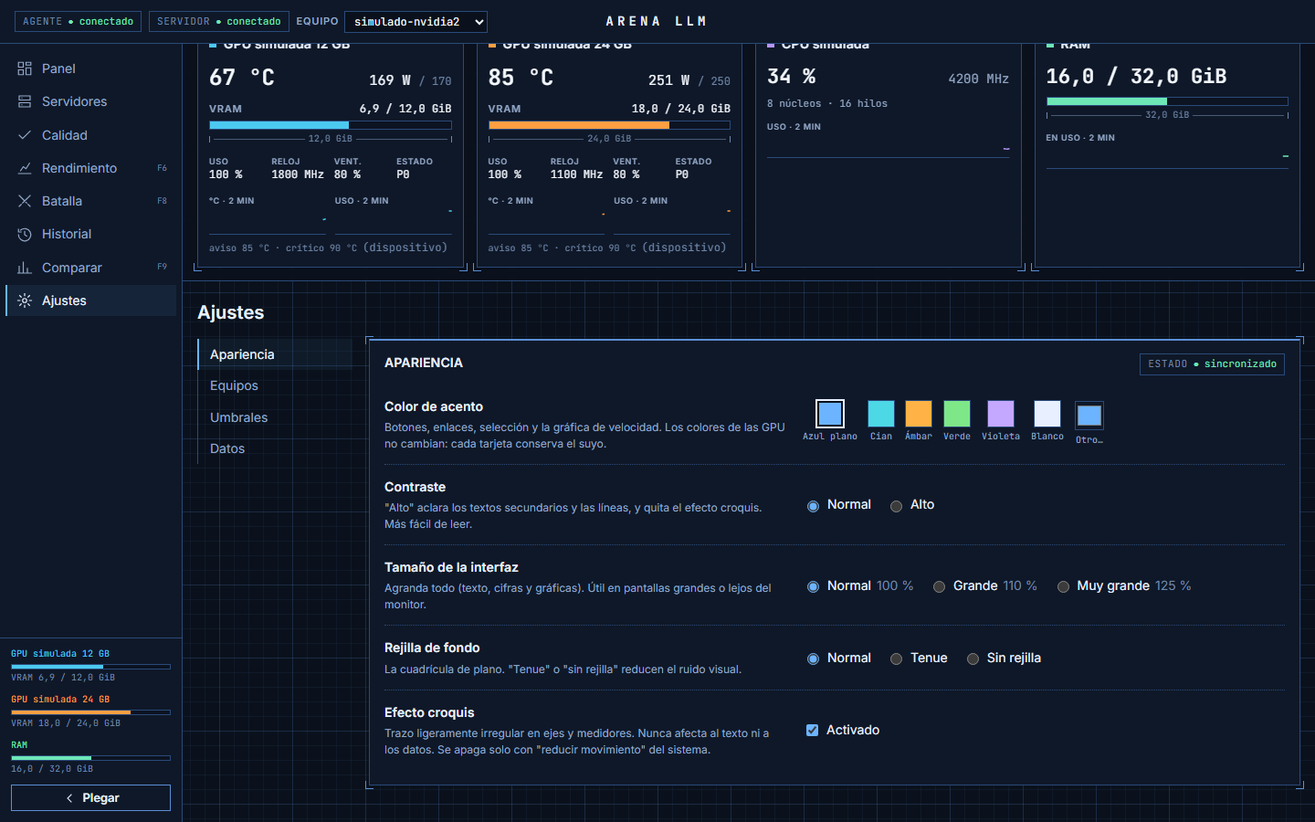
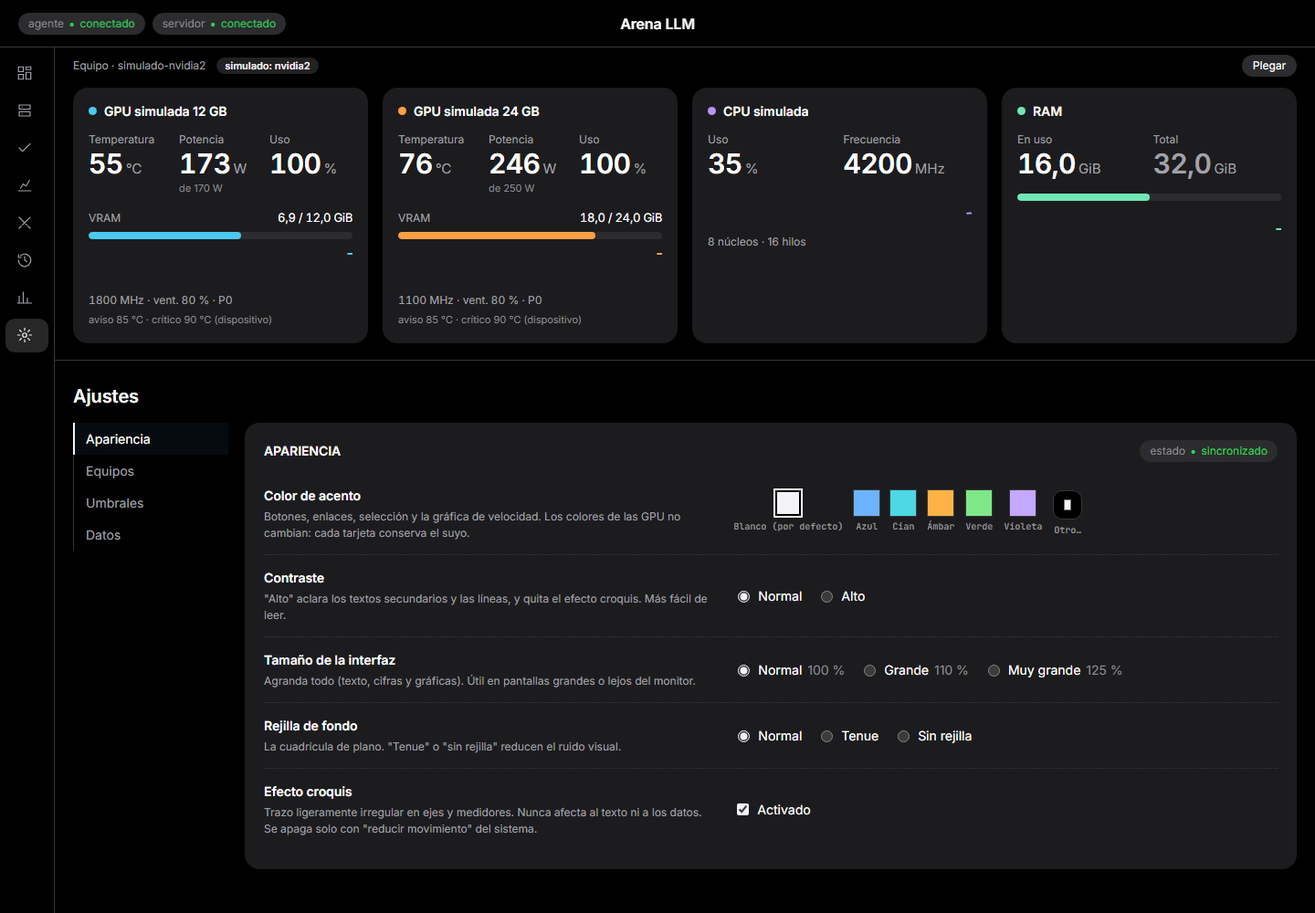
docs: README reescrito con la GUI actual, capturas y animaciones nuevas

diff --git a/README.md b/README.md
@@ -1,157 +1,190 @@
 # Arena LLM
 
-Banco de pruebas **independiente del hardware** para modelos de IA locales (llama.cpp). Es una web local para **medir, enfrentar y comparar modelos** en cualquier equipo y tarjeta, con la telemetría del equipo (cada GPU, CPU y RAM) siempre a la vista.
+Banco de pruebas **independiente del hardware** para modelos de IA locales (llama.cpp). Es una web local que **mide, enfrenta y compara modelos** en cualquier equipo y tarjeta, con la telemetría del equipo (cada GPU, CPU y RAM) siempre a la vista.
 
-![Panel de Arena LLM: dos GPU, CPU y RAM en vivo, con medidores y aviso de throttling](docs/img/panel.png)
+Resuelve un problema concreto: comparar dos modelos, dos cuantizaciones o dos tarjetas suele acabar en cifras sueltas que no se pueden comparar. Arena detecta cada `llama-server` y su configuración, lo prueba con el mismo perfil en cualquier equipo, guarda la foto de configuración con cada run y dice si dos resultados son **comparables** y por qué.
 
-> Estado: F1–F6 hechas, más **Batalla** (F8) y gran parte de **Comparar** (F9): telemetría, detección de servidores, calculadora de encaje con comando de arranque, estrés, prompt libre con biblioteca, rendimiento por componente con `llama-bench`, batallas entre modelos y comparación de runs con lectura de todas las respuestas. Ver [`ESTADO.md`](ESTADO.md) y [`docs/HOJA-DE-RUTA.md`](docs/HOJA-DE-RUTA.md).
->
-> Todas las capturas están hechas con el **modo simulado** (perfiles `nvidia2` y `cpu-only`, `llama-server` simulados y GGUF falsos): no hay datos ni rutas reales.
+![Panel de Arena LLM: dos GPU, CPU y RAM en vivo, con medidores y avisos](docs/img/panel.png)
 
-## Qué hace
+> Todas las capturas y animaciones están hechas con el **modo simulado** (perfil `nvidia2`, `llama-server` simulados y GGUF falsos): no hay datos, rutas ni modelos reales. Los nombres de GPU ("GPU simulada 12 GB") son del simulador.
 
-1. **Muestra siempre el estado del equipo** (cada GPU, CPU y RAM) para ver de un vistazo que no pasa nada raro.
-2. **Detecta sola** qué modelo, contexto y flags tiene cada `llama-server` y lo guarda con cada prueba.
-3. **Prueba y compara**: estrés, prompt libre, rendimiento por componente, batallas A contra B y comparación de resultados. En próximas fases llegarán las pruebas de calidad con corrección automática.
+## Índice
 
-## Funcionalidades
+- [Funciones](#funciones): Panel, Servidores, Calidad, Rendimiento, Batalla, Historial, Comparar, Ajustes y exportación.
+- [Novedades recientes de la interfaz](#novedades-recientes-de-la-interfaz)
+- [Instalación y arranque](#instalación-y-arranque)
+- [Principios](#principios), [componentes](#componentes), [estado por fases](#estado-por-fases) y [documentación](#documentación)
 
-### Telemetría en vivo
+## Funciones
 
-Temperatura, potencia, VRAM, uso, relojes, ventilador, estado P y throttling de cada GPU, más CPU y RAM, cada segundo por SSE. Cada tarjeta conserva su color en toda la interfaz, y los avisos salen de los umbrales de cada dispositivo.
+El menú lateral tiene ocho secciones: Panel, Servidores, Calidad, Rendimiento, Batalla, Historial, Comparar y Ajustes. La franja del equipo (una tarjeta por GPU, CPU y RAM) está arriba en todas las pantallas y se puede plegar con **Plegar**.
+
+### Panel y telemetría en vivo
+
+Temperatura, potencia, uso, VRAM, relojes, ventilador, estado P y throttling de cada GPU, más CPU y RAM, cada segundo por SSE, con gráficas de los últimos 2 minutos. Cada dispositivo conserva su color en toda la interfaz y los avisos salen de los umbrales de cada uno (autodetectados o configurados en Ajustes). Abajo se listan los servidores detectados y la ficha del equipo.
 
 ![Panel en vivo: las GPU pasan de reposo a carga y suben temperatura, potencia y uso](docs/img/panel-telemetria.gif)
 
-<sub>Acelerado ×2.</sub>
+<sub>Acelerado ×3.</sub>
 
-### Detección de servidores
+### Servidores
 
-Arena detecta los `llama-server` que lanzas tú (proceso, `/props`, `/slots`, `/v1/models`): modelo, cuantización, contexto por slot, flags y en qué GPU corre. Cada 5 s vuelve a mirar y registra cualquier cambio de configuración con su diff.
+Dos pestañas: **En marcha** y **GGUF en disco**.
 
-![Página Servidores con los llama-server detectados y su configuración](docs/img/servidores.png)
+**En marcha.** Arena detecta los `llama-server` del equipo (proceso, `/props`, `/slots`, `/v1/models`): modelo, cuantización, contexto por slot, flags, build y en qué GPU corre, y los vuelve a mirar cada 5 s anotando cualquier cambio de configuración con su diff. Se puede **dar de alta un endpoint a mano** (otra máquina, un contenedor), **asignar GPU a mano**, ponerle alias y pulsar **▶ Probar** para ir a Calidad con ese servidor elegido.
 
-![Un servidor se cae, vuelve a cargar con otro contexto y Arena anota el cambio](docs/img/deteccion-servidores.gif)
+![Servidores en marcha: configuración detectada, flags y cambios](docs/img/servidores.png)
 
-<sub>Acelerado ×1,5. El servidor se para ("sin respuesta"), vuelve a arrancar con otro contexto y el cambio queda registrado con su diff.</sub>
+**GGUF en disco.** Lee la cabecera de cada GGUF de las carpetas permitidas y estima pesos por capa, caché KV, búfer de cómputo y reserva por GPU. Con el contexto, los slots y el tipo de caché KV que elijas, el veredicto se compara con la VRAM y la RAM **libres ahora**: cabe en una GPU, cabe repartido, necesita RAM (con el `-ngl` sugerido), solo CPU o no cabe. Todo lleva el sello `ESTIMADO`, y **Ver desglose** enseña cada partida.
 
-También se pueden **dar de alta endpoints a mano** (por ejemplo, un servidor que el agente no ve como proceso) y **asignar GPU a mano** cuando la detección no puede.
-
-### Calculadora de encaje de GGUF
-
-Pestaña **GGUF en disco**: lee la cabecera de cada GGUF de las carpetas permitidas y estima pesos por capa, caché KV, búfer de cómputo y reserva por GPU. El veredicto se compara con la VRAM y la RAM **libres ahora**: cabe en una GPU, cabe repartido, necesita RAM (con el `-ngl` sugerido), solo CPU o no cabe. Todo lleva el sello `ESTIMADO`.
+![Calculadora de encaje: cada GGUF contra la memoria libre, con GPU destino, contexto, slots y caché KV](docs/img/servidores-gguf.png)
 
 ![Cambiar contexto, slots y caché KV recalcula al momento el encaje de cada modelo](docs/img/calculadora-gguf.gif)
 
-### Comando de `llama-server` listo para copiar
+**Lanzar y parar `llama-server` desde la GUI.** Eliges la GPU destino arriba (**Lanzar en**: automático, que usa la recomendada, o una GPU concreta) y **Lanzar** arranca ese modelo con el contexto, los slots y la caché KV elegidos; mientras carga se ve su registro, y **Parar** lo detiene. Arena solo para los servidores que lanzó ella. El agente es quien ejecuta el binario, con una lista cerrada de flags validados, siempre en `127.0.0.1` y con modelos de las carpetas permitidas. Necesita `llama_server` (o un `llama-server` junto a `llama_bench`) en la configuración del agente.
 
-En cada GGUF que cabe, **Ver comando** compone la línea para arrancarlo con lo que ha calculado la calculadora: binario detectado, `-m`, `-c`, `-ngl` sugerido, `-np`, tipo de caché KV, `-fa on` y un `--port` que no usa ningún servidor detectado. Si cabe en varias GPU, eliges en cuál (`-dev`); si va repartido, añade `-ts` según la memoria libre. Sale en la sintaxis de cmd y PowerShell en Windows, o de bash en Linux. Arena no lo lanza: lo copias y lo ejecutas tú.
+> No he podido capturar un lanzamiento real: el agente simulado no tiene un `llama-server` que ejecutar. Los botones se ven en la captura de arriba.
 
-![Comando de llama-server propuesto para un GGUF, con la GPU a elegir y pestañas cmd y PowerShell](docs/img/comando-llama-server.png)
+**Comando copiable.** **Copiar comando** compone la línea equivalente para ejecutarla a mano, en otro equipo o con otros flags: binario, `-m`, `-c`, `-ngl` sugerido, `-np`, tipo de caché KV, `-fa on` y un `--port` libre. Si cabe en varias GPU eliges en cuál (`-dev`); si va repartido añade `-ts`. Sale en la sintaxis de cmd y PowerShell en Windows, o de bash en Linux, con `CUDA_DEVICE_ORDER=PCI_BUS_ID` cuando fija dispositivo.
 
-El binario sale de la configuración del agente (`llama_server`, o el `llama-server` que haya junto a `llama_bench`). Si no está, sale del último `llama-server` detectado y, si tampoco hay, se supone en el `PATH`, con un aviso. Con `-dev` o `-ts` el comando fija `CUDA_DEVICE_ORDER=PCI_BUS_ID` para que `CUDA0, CUDA1…` coincidan con el orden de `nvidia-smi`.
+![Comando de llama-server propuesto para un GGUF, con la GPU a elegir](docs/img/comando-llama-server.png)
 
-### Prueba de estrés
+### Calidad
 
-Peticiones largas en bucle durante el tiempo elegido, con fases de reposo, carga y enfriamiento. Gráficas de t/s, temperatura, potencia de placa y reloj sincronizadas, y aborto automático si una GPU llega a su umbral crítico.
+Pruebas sobre el servidor que elijas, con los parámetros comunes de generación (el perfil estándar fija temperatura 0, semilla 42 y caché de prompt desactivada; cambiarlos hace que el run deje de ser comparable con los del perfil).
+
+- **Estrés GPU/VRAM**: peticiones largas en bucle durante el tiempo elegido, con fases de reposo, carga y enfriamiento. Aborta solo si una GPU llega a su umbral crítico.
+- **Prompt libre**: uno o varios prompts con repeticiones, midiendo TTFT, t/s del cliente y del servidor y tokens.
+
+![Calidad y estrés: elección de servidor, estrés y prompt libre](docs/img/calidad.png)
+
+El estrés muestra en vivo t/s, temperatura, potencia de placa y reloj sincronizados:
 
 ![Run de estrés en marcha: velocidad, temperatura, potencia y reloj en vivo](docs/img/estres-en-vivo.gif)
 
-<sub>Acelerado ×4.</sub>
+<sub>Acelerado ×3.</sub>
 
 Al terminar queda el resultado completo: resumen (mediana de t/s, TTFT, degradación, energía y tokens por Wh, throttling), la **foto de configuración** guardada con el run (servidor, flags, modelo y parámetros) y cada petición.
 
-![Resultado de un run de estrés con resumen, gráficas, configuración guardada y peticiones](docs/img/resultado-run.png)
+![Resultado de un run de estrés con gráficas, resumen y configuración guardada](docs/img/resultado-run.png)
 
-### Prompt libre en streaming y biblioteca de prompts
-
-Uno o varios prompts propios con repeticiones. La respuesta llega en streaming y se miden TTFT, t/s del cliente y del servidor, y tokens.
-
-![Se escribe un prompt, se lanza y la respuesta llega en streaming con sus métricas](docs/img/prompt-libre-streaming.gif)
-
-La **biblioteca** trae 28 prompts en 7 categorías: lógica, tipo test de CI, matemáticas, código, seguir instrucciones, redacción y explicar. Se añaden con un clic, uno a uno o por categorías. Los que tienen respuesta objetiva llevan `ref`, y en el run se ve la **respuesta de referencia** junto a la del modelo.
+**Biblioteca de prompts.** 28 prompts en 7 categorías (lógica, tipo test de CI, matemáticas, código, seguir instrucciones, redacción y explicar), que se añaden con un clic, uno a uno o por categorías. Los que llevan `ref` traen **respuesta de referencia**, que se ve junto a la del modelo. La biblioteca es un fichero de datos ([`server/catalog/prompts.json`](server/catalog/prompts.json)); para añadir los tuyos sin tocar el repositorio, crea un `prompts.json` con la misma forma en la carpeta de datos (`data/` o `ARENA_DATA_DIR`). Un `id` repetido sustituye al de la base.
 
 ![Biblioteca de prompts en Prompt libre, con categorías y prompts seleccionados](docs/img/prompt-biblioteca.png)
 
-La biblioteca es un fichero de datos ([`server/catalog/prompts.json`](server/catalog/prompts.json)). Para añadir los tuyos sin tocar el repositorio, crea un `prompts.json` con la misma forma en la carpeta de datos (`data/` o `ARENA_DATA_DIR`). Un `id` repetido sustituye al de la base.
+La sección también anuncia las pruebas que llegan en F7 (razonamiento, código con ejecución aislada, contexto largo, concurrencia); aún no existen.
 
-### Rendimiento por componente (`llama-bench`)
+### Rendimiento (`llama-bench`)
 
-La página **Rendimiento** lanza `llama-bench` desde el agente con un perfil estándar (pp512, tg128, 3 repeticiones). Hay cuatro pruebas:
+Lanza `llama-bench` desde el agente, sin necesidad de un `llama-server` cargado (mejor que no lo haya, porque ocupa la tarjeta). Perfil estándar (pp512, tg128, 3 repeticiones) y cuatro pruebas:
 
-- **Un dispositivo**.
+- **Un dispositivo**: una GPU con todas las capas, o la CPU sin GPU.
 - **Solo CPU/RAM**, con barrido de hilos.
-- **Curva `-ngl`**: t/s según cuántas capas van en la GPU.
-- **Reparto `-ts`** entre GPU.
+- **Híbrido · curva de la RAM** (`-ngl`): cuánto se pierde por cada capa que pasa de la VRAM a la RAM.
+- **Reparto entre GPU** (`-ts`): cómo repartir un modelo entre varias tarjetas (necesita 2 GPU o más).
 
-El run muestra la curva, una tabla con el % de capas en GPU y el ancho de banda efectivo (`ESTIMADO`), con la telemetría y el aborto térmico de siempre. El agente solo ejecuta el `llama-bench` de su configuración, con una lista cerrada de flags.
+Antes de lanzar, Arena avisa si un servidor ocupa la tarjeta o si el modelo no cabe (**Lanzar igualmente** lo permite).
 
-![Resultado de una curva -ngl con llama-bench: t/s de generación y de procesado de prompt según las capas en GPU](docs/img/rendimiento.png)
+![Preparar una prueba de llama-bench: tipo de prueba, modelo, dispositivo y parámetros](docs/img/rendimiento-preparacion.png)
+
+El run muestra la curva de t/s frente a las capas en GPU, una tabla con el % de capas en GPU y el ancho de banda efectivo (`ESTIMADO`), con la telemetría y el aborto térmico de siempre.
+
+![Resultado de una curva -ngl: t/s de generación y de procesado de prompt según las capas en GPU](docs/img/rendimiento.png)
 
 ### Batalla
 
 Los mismos prompts contra 2–6 servidores (lados), **en paralelo** (cada lado en su servidor, por ejemplo uno por GPU) o **uno detrás de otro** (vale con un solo servidor, por ejemplo para variar solo la temperatura).
 
-- **Común a todos los lados**: prompts (con la biblioteca), semilla, repeticiones y fases.
-- **Por lado**: temperatura, tokens máximos, `top_k/top_p/min_p`, penalización, caché de prompt, prompt de sistema y JSON `extra`, con «Copiar A →».
-- **En vivo**: una columna por lado con la respuesta en streaming, t/s, TTFT, tokens, temperatura de su GPU y minigráfica.
-- **Al terminar**: el **marcador** (más rápido, responde antes, más frío, más eficiente) y las respuestas de todos los lados, prompt a prompt.
+- **Común a todos los lados**: prompts (con la biblioteca), semilla, temperatura y tokens máximos por defecto, repeticiones y fases.
+- **Por lado**: servidor, etiqueta, temperatura, tokens máximos, `top_k/top_p/min_p`, penalización, caché de prompt, prompt de sistema y JSON `extra`, con «Copiar A →».
 
-![Batalla terminada: dos lados con sus cifras y el marcador con veredictos y métricas](docs/img/batalla.png)
+![Preparación de una batalla: prompts de la biblioteca, lados A y B y modo de lanzamiento](docs/img/batalla-preparacion.png)
+
+**En vivo**, la batalla ocupa la pantalla con una columna por lado: modelo, GPU que usa, **cronómetro**, **prompts contestados** (n / total), t/s, TTFT, tokens, temperatura máxima de su GPU, minigráfica y la respuesta en streaming. Si el modelo razona, el **razonamiento** sale en vivo («Pensando…») y se puede ocultar con «ver razonamiento». Se puede **Detener** en cualquier momento.
+
+![Batalla en vivo: dos modelos contestando, con cronómetro, prompts contestados y razonamiento](docs/img/batalla-en-vivo.gif)
+
+<sub>Acelerado ×1,3, de 40 s reales. Las respuestas son texto fijo del `llama-server` simulado, no responden al prompt.</sub>
+
+Al terminar quedan las cifras de cada lado, el **marcador** (más rápido, responde antes, más frío, más eficiente, con su margen) y la tabla de métricas, más las respuestas de todos los lados prompt a prompt. Botones: **Ver en Comparar**, **Repetir** y **Borrar**.
+
+![Batalla terminada: cifras de cada lado](docs/img/batalla.png)
+
+![Marcador y tabla de métricas de la batalla, con la insignia de comparabilidad](docs/img/batalla-marcador.png)
 
 ### Comparar
 
-Elige runs en el Historial (bandeja «Comparar (N)»), desde una batalla o en la propia página. Se pueden comparar hasta 12.
+Elige runs en el Historial (bandeja «Comparar (N)»), desde una batalla o en la propia página (hasta 12; con uno solo sirve para leer sus respuestas). Arriba, la **insignia de comparabilidad** con sus motivos:
 
-- **Insignia de comparabilidad** con sus motivos:
-  - *No comparables*: es otra prueba u otra versión de la prueba.
-  - *Parcialmente*: prompts distintos, algún run incompleto o cambian varias cosas a la vez (por ejemplo, modelo y GPU).
-  - *Comparables*: cambia como mucho un factor, justo el que se compara.
-- **Veredictos** con su margen, **métricas** con el mejor valor marcado (▲), **gráficas superpuestas** (t/s, °C, W) y **diff de configuración**. La temperatura, la potencia y la energía son solo las de la GPU de cada run.
-- **Exportar**: Markdown para el vault (frontmatter YAML, tablas y respuestas completas), CSV y JSON.
+- *No comparables*: es otra prueba u otra versión de la prueba.
+- *Parcialmente*: prompts distintos, algún run incompleto o cambian varias cosas a la vez (por ejemplo, modelo y GPU).
+- *Comparables*: cambia como mucho un factor, justo el que se compara.
 
-![Comparar dos runs: insignia, veredictos y tabla de métricas con el mejor valor resaltado](docs/img/comparar.png)
+Cuatro pestañas:
 
-### Leer todas las respuestas
+- **Resumen**: veredictos con su margen y los datos principales con el mejor valor marcado (▲).
 
-Para revisar si un modelo redacta bien o se equivoca, todas las respuestas se pueden leer **prompt a prompt**: en la vista de cada run (sección «Respuestas»), en la batalla y en Comparar, con una columna por run. Cada respuesta lleva:
+  ![Comparar, pestaña Resumen: insignia, veredictos y datos principales](docs/img/comparar-resumen.png)
 
-- La respuesta de referencia de la biblioteca, cuando la hay.
-- Tokens, palabras, t/s y TTFT.
-- El aviso «cortada por tokens máximos» cuando llega al límite.
-- El razonamiento, opcional.
+- **Prompts**: las respuestas de todos los runs, prompt a prompt, una columna por run. Cada respuesta lleva la referencia de la biblioteca (si la hay), tokens, palabras, t/s y TTFT, el aviso «cortada por tokens máximos», un buscador, razonamiento opcional y desplegar/plegar todo.
 
-Además hay un buscador.
+  ![Comparar, pestaña Prompts: respuestas lado a lado con la respuesta de referencia](docs/img/comparar-prompts.png)
 
-![Respuestas por prompt de dos modelos, lado a lado, con la respuesta de referencia](docs/img/respuestas.png)
+- **Métricas**: todas las métricas, con el mejor valor marcado, y el **diff de configuración** (≠ cuando cambia entre runs). La temperatura, la potencia y la energía son solo las de la GPU de cada run.
+
+  ![Comparar, pestaña Métricas](docs/img/comparar-metricas.png)
+
+- **Gráficas**: el **visor de gráficas** (desde el inicio de la carga). Eliges magnitud (velocidad, temperatura, potencia de placa), disposición (runs superpuestos o una gráfica por run), qué runs ver y el aspecto (eje Y desde 0, relleno bajo la línea, marcar puntos y alto).
+
+  ![Comparar, pestaña Gráficas con el visor](docs/img/comparar-graficas.png)
+
+  ![Cambiar magnitudes, disposición y aspecto en el visor de gráficas](docs/img/comparar-visor-graficas.gif)
 
 ### Historial
 
-Todos los runs guardados, con su servidor, modelo, suite (versión y hash) y métricas principales. Se marcan con casillas para compararlos («Ver respuestas» con uno solo), y los lados de una batalla enlazan a ella.
+Todos los runs guardados, con su servidor, modelo, suite (versión y hash) y métricas principales (t/s, tokens, temperatura máxima, energía, duración). Hay buscador por suite, etiqueta, modelo o estado. Se marcan con casillas para compararlos («Ver respuestas» con uno solo), y los lados de una batalla enlazan a ella.
 
-![Historial de runs](docs/img/historial.png)
+![Historial de runs con dos runs marcados para comparar](docs/img/historial.png)
 
 ### Ajustes
 
-Apariencia (color de acento, contraste, tamaño de la interfaz, rejilla y efecto croquis), equipos, umbrales térmicos por dispositivo y datos.
+Cuatro apartados:
+
+- **Apariencia**: color de acento, contraste, tamaño de la interfaz, rejilla de fondo y efecto croquis (se apaga con «reducir movimiento» del sistema).
+- **Equipos (agentes)**: añadir o quitar equipos con su URL y token (obligatorio fuera de localhost).
+- **Umbrales térmicos** por dispositivo, de aviso y de aborto, o «Automático».
+- **Datos**: runs guardados, servidores conocidos y dónde está la base de datos. Importar/exportar todo está previsto para F9.
 
 ![Ajustes de apariencia](docs/img/ajustes-apariencia.png)
 
-## Principios
+![Umbrales térmicos por dispositivo](docs/img/ajustes-umbrales.png)
 
-- **Independiente del hardware.** Nada cableado: ni nombres de GPU, ni puertos, ni rutas, ni VRAM, ni umbrales. Todo se autodetecta o se configura. Los proveedores de telemetría son enchufables (v1: NVIDIA y CPU/RAM; un equipo solo con CPU también funciona).
-- **Detecta, no controla.** Tú lanzas `llama-server` como siempre (Arena te propone el comando) y Arena lo detecta y guarda su configuración. Arrancar y parar servidores desde la web está en el backlog. La única excepción es `llama-bench`, que lanza el agente.
-- **No inventa datos.** Lo que no se puede medir sale como "sin datos", nunca como 0. Las estimaciones (encaje, comando propuesto, ancho de banda, potencia de placa…) llevan el sello `ESTIMADO`.
-- **Reproducible y comparable.** Cada prueba tiene versión y hash. El perfil estándar fija semilla, temperatura 0 y `cache_prompt` desactivado, y cada run guarda su foto de configuración completa.
+### Exportación
 
-## Componentes
+En Comparar, el apartado **Exportar** (debajo de las pestañas): **Copiar Markdown para el vault** (frontmatter YAML de tipo proyecto, tablas y respuestas completas), **Descargar .md**, **CSV** (con `;`) y **JSON**.
 
-| Carpeta | Qué es | Requisitos |
-|---|---|---|
-| `agent/` | Agente por equipo: telemetría (GPU, CPU, RAM), detección de `llama-server`, cabeceras GGUF y `llama-bench` | Python 3.11+, **solo biblioteca estándar** (+ `nvidia-smi` si hay GPU NVIDIA) |
-| `server/` | API, sondeo de agentes, eventos en vivo (SSE), runner de pruebas, calculadora y base de datos SQLite | Python 3.11+, FastAPI, uvicorn, httpx |
-| `web/` | Interfaz en Vue 3 + Vite + TypeScript, con gráficas propias en SVG | Node 20+ (solo para compilarla) |
+![Exportar una comparación: Markdown para el vault, .md, CSV y JSON](docs/img/comparar-exportar.png)
 
-## Puesta en marcha
+## Novedades recientes de la interfaz
+
+- **Menú lateral plegado** que se abre al pasar el cursor (o al enfocarlo con el teclado). Las opciones cercanas a la que tocas se desplazan en **ola** según su distancia, y al abrirse enseña la VRAM y la RAM de cada dispositivo. «Desplegar» lo deja fijo.
+
+  ![El menú lateral se abre al pasar el cursor y las opciones se mueven en ola](docs/img/menu-ola.gif)
+
+  ![Menú lateral abierto, con la opción activa y la VRAM por dispositivo](docs/img/menu-lateral.png)
+
+- **Efectos hover** en botones y tarjetas.
+
+  ![Efectos al pasar el cursor por botones y tarjetas](docs/img/hover-efectos.gif)
+
+- **Los servidores detectados que se paran desaparecen de la lista** (sus runs conservan su propia foto de configuración). Los dados de alta a mano se quedan hasta que se quitan.
+
+  > Sin captura: el agente simulado mantiene siempre su lista de procesos, así que no hay forma de reproducirlo en el modo simulado.
+
+- **Batalla a pantalla completa** con modelo, GPU, cronómetro, prompts contestados y razonamiento en vivo, y **Comparar en pestañas** con visor de gráficas (ver arriba).
+- **Lanzar y parar `llama-server`** desde Servidores → GGUF en disco, con GPU destino y orden de modelos.
+
+## Instalación y arranque
 
 ### 1. Instalar (una vez)
 
@@ -159,6 +192,8 @@ Apariencia (color de acento, contraste, tamaño de la interfaz, rejilla y efecto
 scripts\setup.bat          :: crea .venv (Python 3.12 por defecto; scripts\setup.bat 3.11 para otra versión)
 scripts\build-web.bat      :: compila la web en web\dist (repetir tras cambios en web\)
 ```
+
+En Linux, los mismos scripts terminan en `.sh`. Instala Python, Node y los entornos en un disco con espacio (en este PC, `D:`).
 
 ### 2. Configurar el agente (una vez por equipo)
 
@@ -172,9 +207,9 @@ Crea `%APPDATA%\ArenaLLM\agent.json` en Windows, o `~/.config/arena-llm/agent.js
 }
 ```
 
-- `model_dirs`: carpetas cuyos GGUF puede leer el agente (calculadora y `llama-bench`). Sin esta clave, el agente funciona pero no lee GGUF.
+- `model_dirs`: carpetas cuyos GGUF puede leer el agente (calculadora, lanzador y `llama-bench`). Sin esta clave, el agente funciona pero no lee GGUF.
 - `llama_bench`: para la página Rendimiento.
-- `llama_server`: opcional. Si falta, se usa el `llama-server` que haya junto a `llama-bench`. Solo sirve para proponer el comando; el agente nunca lo ejecuta.
+- `llama_server`: para lanzar desde la GUI y para el comando propuesto. Si falta, se usa el `llama-server` que haya junto a `llama-bench`.
 
 La configuración se busca, por este orden, en `--config <fichero>`, en la variable `ARENA_AGENT_CONFIG` y en la ruta de arriba.
 
@@ -185,16 +220,7 @@ scripts\start-agent.bat    :: agente en 127.0.0.1:9100 (déjalo abierto)
 scripts\start-server.bat --agent http://127.0.0.1:9100    :: servidor en http://127.0.0.1:8090
 ```
 
-Abre `http://127.0.0.1:8090`. Después:
-
-1. **Servidores → GGUF en disco**: elige contexto y slots, mira si el modelo cabe y pulsa **Ver comando**.
-2. Copia el comando y ejecútalo en una terminal. Arena detecta el servidor en unos 5 s, y cuando aparece como **listo** ya se puede probar.
-3. **Calidad**: elige el servidor y lanza **Prompt libre** (con prompts de la biblioteca) o **Estrés**.
-4. **Batalla**: elige prompts, un servidor por lado y lanza. Para enfrentar dos modelos a la vez, lanza dos `llama-server` (uno por GPU, en puertos distintos). Con uno solo, usa «uno detrás de otro».
-5. **Comparar** o **Historial**: marca runs y compáralos, o abre uno y baja a «Respuestas» para leerlas todas.
-6. **Rendimiento**: `llama-bench` por componente, sin necesidad de tener un `llama-server` cargado. Es mejor que no lo haya, porque ocupa la tarjeta.
-
-`scripts\stop.bat` para todo lo de Arena, pero no toca los `llama-server` que hayas lanzado tú. En Linux, los mismos scripts terminan en `.sh`.
+Abre `http://127.0.0.1:8090`. Después: **Servidores → GGUF en disco** para lanzar un modelo (o copiar su comando), **Calidad**, **Rendimiento** o **Batalla** para probarlo, y **Historial / Comparar** para revisar y comparar. `scripts\stop.bat` para todo lo de Arena, pero no toca los `llama-server` que hayas lanzado tú.
 
 ### Demo sin GPU
 
@@ -202,7 +228,7 @@ Abre `http://127.0.0.1:8090`. Después:
 scripts\demo.bat D:\modelos    :: agente real + agente simulado (2 GPU, 2 llama-server simulados) + servidor, y abre el navegador
 ```
 
-### Por piezas
+### Por piezas y perfiles simulados
 
 ```bash
 # Agente (cada equipo con GPU). Solo escucha en localhost salvo que haya token.
@@ -223,7 +249,23 @@ npm run dev --prefix web
 pytest && npm test --prefix web
 ```
 
-En Windows, `python` es el de `.venv\Scripts\python.exe` (los scripts `.bat` ya lo usan).
+Los perfiles simulados son `nvidia2` (dos GPU NVIDIA con servidores simulados), `cpu-only` (sin GPU) y `partial` (una GPU que no expone ventilador, potencia ni throttling, para probar los "sin datos"). En Windows, `python` es el de `.venv\Scripts\python.exe` (los scripts `.bat` ya lo usan).
+
+## Principios
+
+- **Independiente del hardware.** Nada cableado: ni nombres de GPU, ni puertos, ni rutas, ni VRAM, ni umbrales. Todo se autodetecta o se configura. Los proveedores de telemetría son enchufables (v1: NVIDIA y CPU/RAM; un equipo solo con CPU también funciona).
+- **Reproducible y comparable.** Cada prueba tiene versión y hash. El perfil estándar fija semilla, temperatura 0 y `cache_prompt` desactivado, y cada run guarda su foto de configuración completa y la insignia Comparables / Parcialmente / No comparables al compararlos.
+- **Detecta siempre, lanza solo lo pedido.** Arena detecta cualquier `llama-server` lo haya lanzado quien lo haya lanzado. Desde la GUI solo lanza y para los que ella arrancó, y el agente lanza `llama-bench`.
+- **No inventa datos.** Lo que no se puede medir sale como "sin datos", nunca como 0. Las estimaciones (encaje, comando propuesto, ancho de banda, potencia de placa…) llevan el sello `ESTIMADO`.
+- **Seguridad.** El agente escucha en `127.0.0.1` y, fuera de localhost, exige token. No es una shell remota: solo ejecuta `llama-bench` y `llama-server` de su configuración, con flags validados, modelos dentro de `model_dirs` y sin aceptar peticiones con cabecera `Origin`. No se suben al repositorio la base de datos, los resultados reales, los modelos, las rutas personales ni los tokens.
+
+## Componentes
+
+| Carpeta | Qué es | Requisitos |
+|---|---|---|
+| `agent/` | Agente por equipo: telemetría (GPU, CPU, RAM), detección y lanzador de `llama-server`, cabeceras GGUF y `llama-bench` | Python 3.11+, **solo biblioteca estándar** (+ `nvidia-smi` si hay GPU NVIDIA) |
+| `server/` | API, sondeo de agentes, eventos en vivo (SSE), runner de pruebas, calculadora y base de datos SQLite | Python 3.11+, FastAPI, uvicorn, httpx |
+| `web/` | Interfaz en Vue 3 + Vite + TypeScript, con gráficas propias en SVG | Node 20+ (solo para compilarla) |
 
 ## Estado por fases
 
@@ -231,7 +273,7 @@ En Windows, `python` es el de `.venv\Scripts\python.exe` (los scripts `.bat` ya 
 |---|---|---|
 | F1 | Esqueleto y agente (telemetría, detección, perfiles simulados) | ✅ |
 | F2 | GUI base y plano del equipo | ✅ |
-| F3 | Servidores, modelos y detección (calculadora de encaje, comando de arranque, alta manual) | Casi: falta un criterio con un servidor real |
+| F3 | Servidores, modelos y detección (calculadora de encaje, comando de arranque, lanzar y parar, alta manual) | Casi: falta un criterio con un servidor real |
 | F4 | Runner núcleo (prompt libre y biblioteca de prompts) | ✅ |
 | F5 | Telemetría sincronizada, resumen y estrés | ✅ salvo la prueba real de 5 min |
 | F6 | Rendimiento por componente (`llama-bench`) | ✅ (reparto `-ts` probado solo en simulado) |
@@ -251,3 +293,4 @@ La base de datos vive en `data/` o en la ruta de `ARENA_DATA_DIR`. `data/` está
 - [`docs/PLAN-CONSTRUCCION.md`](docs/PLAN-CONSTRUCCION.md): módulos, contrato entre agente y servidor, e hitos.
 - [`docs/GUI-DISENO.md`](docs/GUI-DISENO.md): interfaz.
 - [`docs/VIABILIDAD.md`](docs/VIABILIDAD.md): riesgos, métricas y datasets de pruebas.
+- [`ESTADO.md`](ESTADO.md): estado actual y cierre de cada sesión.
